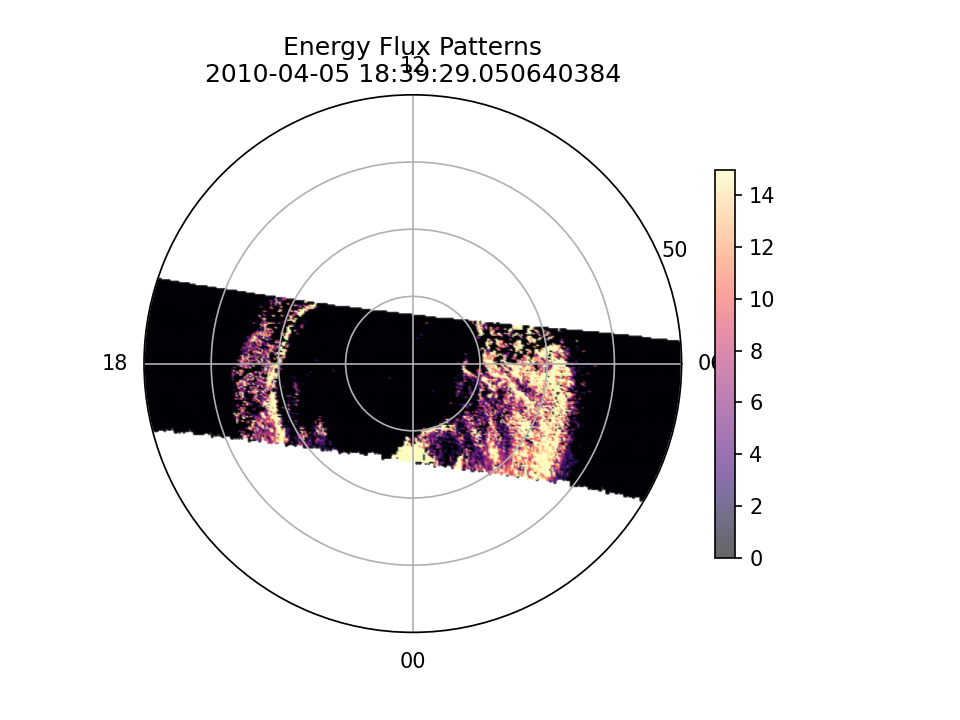
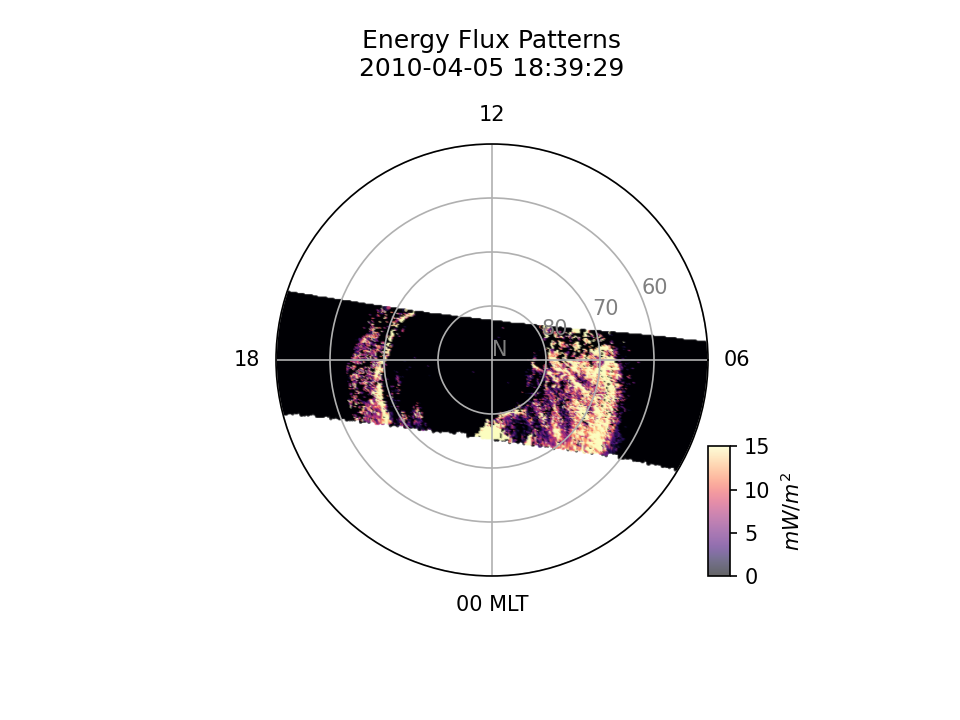
formatted ssusi energy plots, now exploring other dmsp-ssusi data

diff --git a/dmsp_precipplots.py b/dmsp_precipplots.py
@@ -1,0 +1,190 @@
+# ===================
+# dmsp_precipplots.py
+#
+# ABOUT ME
+# 
+# MAIN INPUTS 
+# 
+# MAIN OUTPUTS
+# 
+# FUNCTIONS 
+# ===================
+
+import pandas as pd
+import os, glob
+import h5py
+import xarray as xr
+import numpy as np
+from apexpy import Apex
+from scipy.signal import find_peaks # to find the mlat extrema
+import matplotlib.pyplot as plt
+
+def main():
+    # inputs here!!
+    # -------------
+    sat_name = 'F16' #DMSP satellite number
+    lat_threshold = 60 # if we want to make high-latitude plots
+    date_str = '20100405'               # date in yyyymmdd format
+
+    # set up
+    # ------
+    year = date_str[0:4]
+    DL_PATH = f'/backup/Data/DMSP/{year}/'  # Folder with DMSP files
+
+    # Date formatting
+    date_req = pd.to_datetime(date_str)      # convert to datetime object
+    date_str_req = str(date_req.year) + str(date_req.month).rjust(2,'0') + str(date_req.day).rjust(2,'0')
+
+    # plot 
+    # ----
+    newdf = get_dmsp_data(DL_PATH,date_str_req,sat_name)
+    # peak_times = get_dmsp_peak_times(newdf,lat_threshold)
+    # plt.plot(newdf['el_i_flux'])
+
+
+def get_dmsp_data(DL_PATH,date_str_req,sat_name):
+    # Read DMSP data 
+    dfd = read_hdf5_file(DL_PATH, date_str_req, file_type='drifts', sat_list=[sat_name])
+    dfp = read_hdf5_file(DL_PATH, date_str_req, file_type='precip', sat_list=[sat_name])
+    # Merge precip and drifts files
+    df = pd.merge(dfd, dfp, on='dtime', how='outer', suffixes=('_dfd', '_dfp'))
+    df = clean_identical_columns(df) # Remove identical variables
+    for col in ['mlt', 'mlong', 'glon']: # Fix cyclical parameters
+        newdf = fix_col(df, col)
+    return newdf
+
+
+
+def read_hdf5_file(DL_PATH, date_str, file_type='drifts', # also works for 'precip'
+                   sat_list=None):
+    ds = {}
+
+    if file_type == 'drifts':
+        fl_nm_DMSP = os.path.join(DL_PATH, f"dms_{date_str}_s1")
+    elif file_type == 'precip':
+        all_files = glob.glob(os.path.join(DL_PATH, f"dms_{date_str}_*"))
+        fl_nm_DMSP = [f for f in all_files if "s1" not in f]
+        
+    found_files = glob.glob(fl_nm_DMSP) if isinstance(fl_nm_DMSP, str) else fl_nm_DMSP
+    
+    for ifile in found_files:
+    
+        #print('Reading HDF5 file:', ifile)
+         # Extract satellite number
+        satnum = ifile[ifile.rfind('_')+1:]
+        satnum = satnum[:satnum.find('.')-1]
+        satkey = 'F' + satnum
+        #print(satkey)
+        if file_type == 'drifts':
+            satkey = satkey[0:-1]
+        elif file_type == 'precip':
+            satkey = satkey
+        # Skip if sat_list is provided and this satkey is not in it
+        if sat_list is not None and satkey not in sat_list:
+            continue
+        
+        if file_type == 'drifts':
+            h5cols = ['year', 'month', 'day', 'hour', 'min', 'sec', 'recno',
+                      'kindat', 'kinst', 'ut1_unix', 'ut2_unix',
+                      "gdlat", "glon", "gdalt", "sat_id", "mlt", "mlat", "mlong",
+                      "ne", "hor_ion_v", "vert_ion_v", "bd", "b_forward", "b_perp",
+                      "diff_bd", "diff_b_for", "diff_b_perp"]
+    
+            # Read the HDF5 file into a pandas DataFrame
+            # Faster than Dask & Easier to manipulate than xarray since it is flat
+            with h5py.File(ifile, 'r') as file:
+                if file_type == 'drifts':
+                    data_group = file['Data']
+                    data_array = data_group['Table Layout'][:]
+                df = pd.DataFrame({name: data_array[name] for name in h5cols})
+    
+            df['dtime'] = pd.to_datetime(df.ut1_unix, unit='s')
+            df = df.set_index('dtime')
+            # remove columns year -> ut2_unix (first 11 cols)
+            df = df[h5cols[11:]]
+    
+        elif file_type == 'precip':
+            ds = xr.open_dataset(ifile, engine='h5netcdf')
+            ds['dtime'] = ('timestamps', pd.to_datetime(ds.timestamps.values, unit='s'))
+            ds = ds.swap_dims({'timestamps':'dtime'}).drop_vars('timestamps')
+            df = ds.drop_dims('ch_energy').to_dataframe()
+
+        #ds[satkey] = df
+
+    return df
+
+
+
+# remove or clean the identical columns from merged file in precip and drifts files
+def clean_identical_columns(df, atol=1e-10):
+    for col in df.columns:
+        if col.endswith('_dfd'):
+            base = col[:-4]
+            col_dfp = base + '_dfp'
+
+            if col_dfp in df.columns:
+                try:
+                    # Compute difference
+                    diff = df[col_dfp] - df[col]
+                    mean_diff = np.nanmean(diff)
+
+                    if np.abs(mean_diff) < atol:
+                        df[base] = df[col]  # or df[col_dfp], they're the same
+                        df.drop(columns=[col, col_dfp], inplace=True)
+                        print(f" Merged: {base} (mean diff = {mean_diff:.2e})")
+                    else:
+                        print(f" Couldn't merge: {base} (mean diff = {mean_diff:.2e})")
+
+                except Exception as e:
+                    print(f"{base}: Could not compare ({e})")
+
+    return df
+
+
+
+# Fix the data artefacts due to cyclic coordinate interpolation in glon,mlon, and mlt
+def fix_col(df, colname):
+    ts = pd.date_range(df.index.min().date(),
+                       df.index.max(), freq='1 min')
+    ts = [t for t in ts if t in df.index]
+    threshold = 0.2 if colname == 'mlt' else 2 # 2 for mlon and lon; 0.2 for mlt
+    for iTime in range(len(ts) - 1):
+        t0, t1 = ts[iTime], ts[iTime + 1]
+        window = df.loc[t0:t1, colname]
+        if (np.abs(np.diff(window)) > threshold).sum() > 4:
+            if colname == 'mlt':
+                seg  = df.loc[t0:t1]
+                dt0  = seg.index[0].to_pydatetime()
+                t = seg.index
+
+                mlon = seg['mlong'].to_numpy()
+                alt  = seg['gdalt'].to_numpy()
+                apex = Apex(date=dt0)
+                new_mlt = apex.mlon2mlt(mlon, t.to_numpy(), alt)
+                df.loc[t0:t1, colname] = new_mlt
+
+            else:
+                v0 = df.at[t0, colname] 
+                v1 = df.at[t1, colname]
+                n = len(window)
+                df.loc[t0:t1, colname] = np.linspace(v0, v1, num=n)
+
+    return df
+
+
+def get_dmsp_peak_times(newdf,lat_threshold):
+    #DMSP Peak Detection
+    mlat_abs = np.abs(newdf.mlat)
+    satpeaks, _ = find_peaks(mlat_abs)
+    near_polar_peaks = satpeaks[mlat_abs.iloc[satpeaks] > lat_threshold]
+    # Get peak indices and times
+    peak_times_str = newdf.index[near_polar_peaks]
+    # Convert peak time strings to datetime objects
+    peak_times = [t.to_pydatetime() for t in peak_times_str]
+    return peak_times
+
+
+if __name__=="__main__":
+    main()
+
+

diff --git a/ssusi_energyplots.py b/ssusi_energyplots.py
@@ -83,7 +83,8 @@ def main():
                 yyyy = int(stoptime[:4])
                 ddd = int(stoptime[4:7])
                 date = pd.Timestamp(yyyy, 1, 1)+pd.Timedelta(ddd-1, 'D')
-                timestamp = date+pd.Timedelta(np.nanmean(ut[image==image]),'h')
+                timestamp =  date+pd.Timedelta(np.nanmean(ut[image==image]),'h')
+                event_dt = timestamp.to_pydatetime()
             
                 if starttime[:7] != stoptime[:7]:
                     ut[ut > 20] = ut[ut > 20]-24 # MXB Q: what does this do?
@@ -100,23 +101,24 @@ def main():
                     cmap_str = "magma"
                     maxi = 15 # MXB Q: what does this mean physically
                     mini = 0  # MXB Note: I used Mukhopadhyay et al 2022 Fig 8a max/mins for this
+                    unit = r'$mW/m^2$'
                 elif "MEAN" in plottype:
                     title = "Mean Energy Patterns"
                     cmap_str = "plasma"
                     plotpath = path_meanenergy
                     maxi = 6 # MXB Q: same what does this mean physically?
                     mini = 0 # MXB Note: I used Mukhopadhyay et al 2022 Fig 8b max/mins for this
+                    unit = r'$keV$'
     
                 # plot
-                plot_SSUSI(dataplot,mlat,mlt,maxi,mini,timestamp,title, cmap_str)
-                event_dt = timestamp.to_pydatetime()
+                plot_SSUSI(dataplot,mlat,mlt,maxi,mini,event_dt,title, cmap_str, unit)
                 plotname = event_dt.strftime('%Y%m%d_%H%M') + '_energyflux.png'
 
                 # output
                 # ------
                 plt.savefig(plotpath + plotname, dpi=150)
 
-def plot_SSUSI(image,mlat,mlt,maxi,mini,time_stamp,name,cmap_str):
+def plot_SSUSI(image,mlat,mlt,maxi,mini,time_stamp,name,cmap_str,unit_str):
     #
     # OBJECTIVE 
     # - creates polar plots
@@ -124,17 +126,19 @@ def plot_SSUSI(image,mlat,mlt,maxi,mini,time_stamp,name,cmap_str):
     # INPUT TYPES 
     # - array : image, mlat, mlt
     # - int : maxi, mini
-    # - pandas.Timestamp : time_stamp
-    # - str : name, cmap_str 
+    # - datetime.datetime : time_stamp
+    # - str : name, cmap_str, unit_str
     #
     # OUTPUT TYPES 
     # - fig : pyplot
     # 
     
     fig=plt.figure()
-    plt.subplots_adjust(left = 0.15,   right=0.85,
+    plt.subplots_adjust(bottom = 0.2,  top = 0.8,
                         wspace = 0.03, hspace = 0.03)
+    
     ax = fig.add_subplot(1,1,1,polar=True)
+    ax_cbar = ax.inset_axes([1, 0, 0.05, 0.3])
 
     # plot polar map
     theta = mlt*15.0*np.pi/180.0-np.pi/2
@@ -143,18 +147,24 @@ def plot_SSUSI(image,mlat,mlt,maxi,mini,time_stamp,name,cmap_str):
     hs=ax.scatter(theta, rad, c=image,       s=0.5,
                               vmin=mini,     vmax=maxi,
                               cmap=cmap_str, alpha=0.6)
+    
     levels = [0.0,10,20,30,40]
-
     ax.set_rticks(levels)
     ax.set_rmax(40.0)
-    ax.set_yticklabels(['','','','','50'])
     ax.set_rlabel_position(22.5)
-    ax.set_xticks(np.arange(0,2*np.pi,np.pi/2.0))
-    ax.set_xticklabels(['06','12', '18', '00'])
-    ax.grid(True)
-    ax.set_title(name + "\n" + str(time_stamp))
 
-    fig.colorbar(hs,ax=ax,shrink=0.7)
+    ax.set_yticklabels(['N','80','70','60','']) # lat labels
+    ax.tick_params(axis='y', labelcolor='gray')
+
+    ax.set_xticks(np.arange(0,2*np.pi,np.pi/2.0)) # MLT labels
+    ax.set_xticklabels(['06','12', '18', '00 MLT'])
+
+    ax.grid(True)
+
+    timestamp_str = time_stamp.strftime('%Y-%m-%d %H:%M:%S')
+    ax.set_title(name + "\n" + timestamp_str + '\n \n')
+
+    fig.colorbar(hs, cax=ax_cbar, shrink=0.3, label=unit_str)
 
     return
 
@@ -173,7 +183,5 @@ def dir_exist(path):
     else:
         print(f'Dir exists: {path}')
     
-# main loop
-# =========
 if __name__=="__main__":
     main()

diff --git a/example_code/example_code.py b/example_code/example_code.py
@@ -11,15 +11,15 @@ import matplotlib.pyplot as plt
 # inputs
 sat_name = 'F16' #DMSP satellite number
 lat_threshold = 60 # if we want to make high-latitude plots
-
 date_str = '20110926'               # date in yyyymmdd format
+
+year = date_str[0:4]
 DL_PATH = f'/backup/Data/DMSP/{year}/'  # Folder with DMSP files
 
 
 # Date formatting
 date_req = pd.to_datetime(date_str)      # convert to datetime object
 date_str_req = str(date_req.year) + str(date_req.month).rjust(2,'0') + str(date_req.day).rjust(2,'0')
-year = date_str[0:4]
 
 
 
